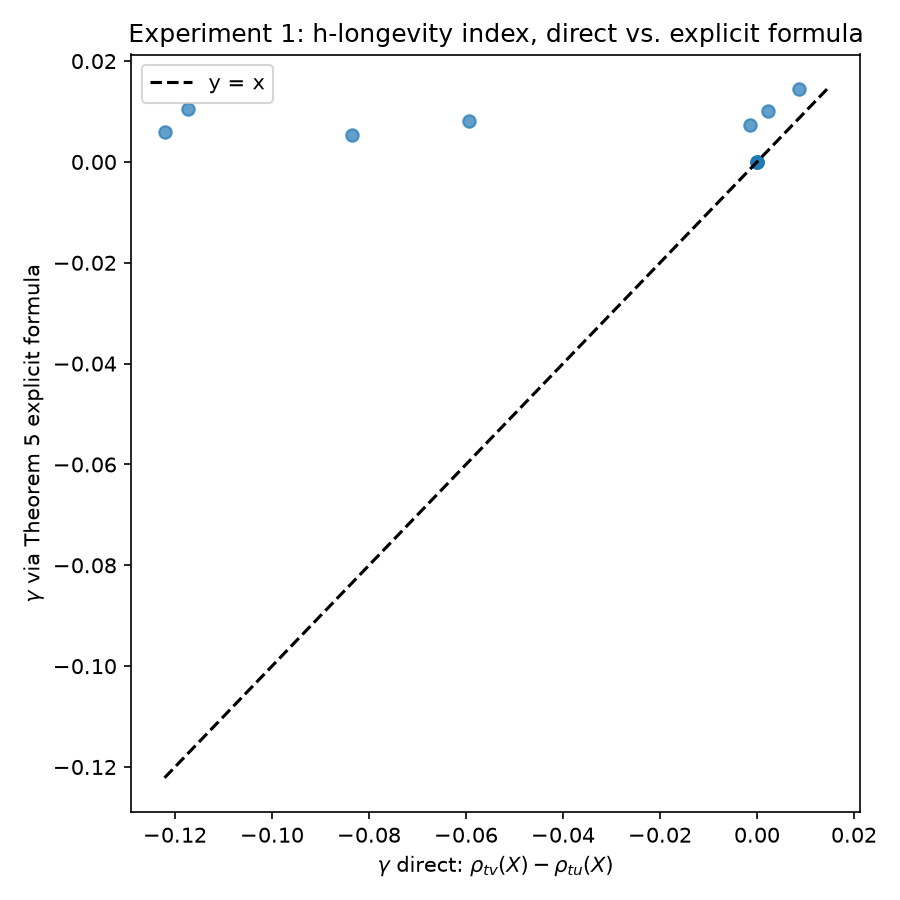
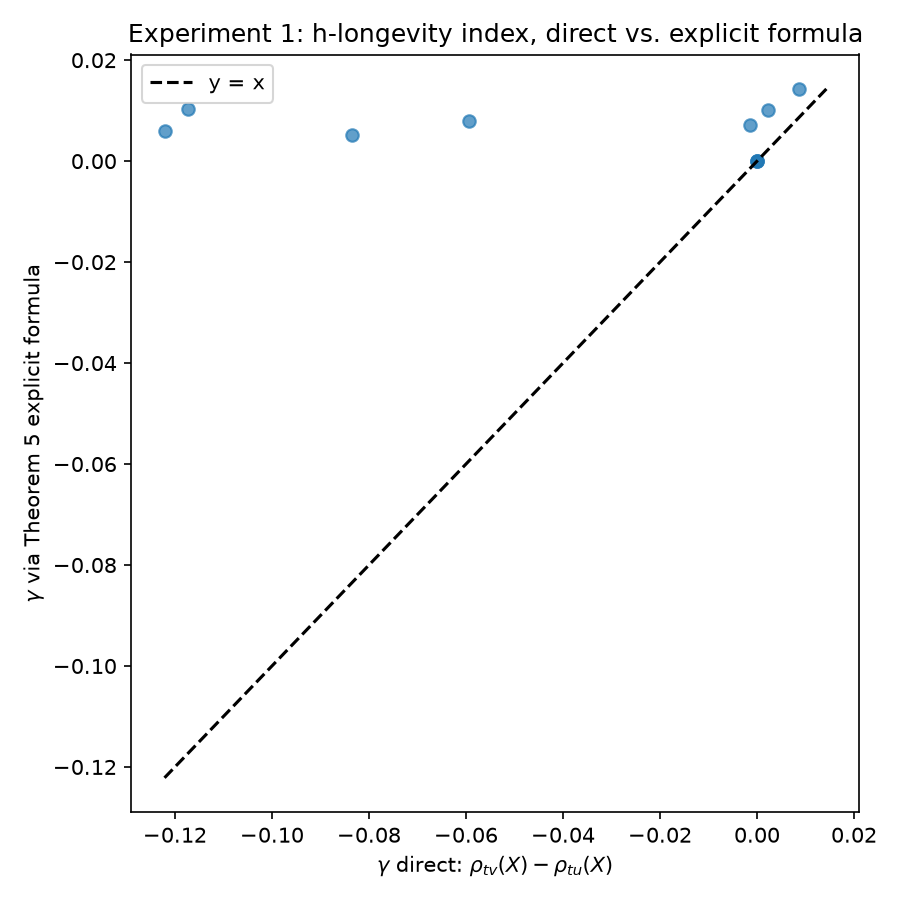
Fix Theorem 5 h-longevity index formula: single exponential factor over [t,v]

diff --git a/src/fully_dynamic.py b/src/fully_dynamic.py
@@ -95,29 +95,21 @@ def gamma_theorem5(
     g_minus_x_zero_vals: np.ndarray,
     basis_degree: int = 5,
 ) -> np.ndarray:
-    """Explicit h-longevity index of Theorem 5,
+    """Explicit h-longevity index of Theorem 5 (Section 2.1, equation
+    preceding/within Theorem 5):
 
-        gamma(t,u,v,X) = E_{Qtilde_X}[ int_u^v exp(int_t^s Delta_y g(r) dr)
-                           g(s,-X,0) ds | F_t ]
-                        = E_P[ W_tv * int_u^v exp(int_t^s Delta_y g(r) dr)
-                           g(s,-X,0) ds | F_t ],
+        gamma(t,u,v,X) = E_{Qtilde_X}[ exp(int_t^v Delta_y g(s) ds)
+                            int_u^v g(s,-X,0) ds | F_t ]
+                       = E_P[ W_tv * exp(int_t^v Delta_y g(s) ds)
+                            int_u^v g(s,-X,0) ds | F_t ],
 
-    with Girsanov density (equation preceding Theorem 5)
+    with Girsanov density
 
         W_tv = exp{ -1/2 int_t^v |Delta_z g(s)|^2 ds + int_t^v Delta_z g(s) dB_s }.
 
-    The running (s-dependent, not fixed at v) exponential discount factor is
-    the solution of the linear BSDE with source term that underlies the
-    proof of Theorem 5 (the comparison tilde_Y_s = Y_s^v - bar_Y_s^u solves
-    d(tilde_Y_s) = -Delta_y g(s) tilde_Y_s ds - g(s,-X,0) 1_{(u,v]}(s) ds +
-    Z_s^v dB_s^{Qtilde}, tilde_Y_v = 0, whose standard linear-BSDE-with-
-    running-cost representation integrates the discount factor exp(int_t^s
-    Delta_y g(r)dr) against the source term g(s,-X,0) under the integral
-    sign). This was checked against a closed-form deterministic case
-    (constant X, driver g=r y^- + z with r constant, so Z = 0 and Qtilde=P):
-    the running-exponent form reproduces rho_tv(X) - rho_tu(X) exactly,
-    while discounting by the fixed factor exp(int_t^v Delta_y g(r)dr) does
-    not.
+    Theorem 5 pulls the exponential e^{int_t^v Delta_y g(s) ds} out of the
+    inner integral: it is a single factor over the *whole* interval [t, v],
+    not a running discount re-evaluated at each s inside int_u^v (·) ds.
 
     This implementation assumes Delta_z g(s) is a known deterministic
     constant over ``[t, v]`` (true for the Example 6 driver g = r_t y^- + z,
@@ -127,25 +119,22 @@ def gamma_theorem5(
     Parameters
     ----------
     delta_y_vals: array (n_paths, n_steps_tv + 1), Delta_y g(s) evaluated at
-        every grid point of ``[t, v]`` (Eq. (18), from the bar-Y extension
+        every grid point of ``[t, v]`` (Eq. (19), from the bar-Y extension
         (17) of the BSDE solutions on [t,u] and [t,v]).
-    delta_z_const: constant value of Delta_z g(s) on [t, v].
+    delta_z_const: constant value of Delta_z g(s) on [t, v] (Eq. (18)).
     g_minus_x_zero_vals: array (n_paths, n_steps_tv + 1), g(s, -X, 0) at
         every grid point of ``[t, v]`` (only ``[u, v]`` is integrated).
     """
-    from scipy.integrate import cumulative_trapezoid
-
     it = grid_index(times, t)
     iv = grid_index(times, v)
     sub_times = times[it : iv + 1]
 
-    # Running exponent int_t^s Delta_y g(r) dr at every grid point s in [t, v].
-    cum_integral = cumulative_trapezoid(delta_y_vals, sub_times, axis=1, initial=0.0)
-    running_discount = np.exp(cum_integral)
+    # Single exponent int_t^v Delta_y g(s) ds over the whole interval [t, v].
+    exponent = np.trapz(delta_y_vals, sub_times, axis=1)
+    discount = np.exp(exponent)
 
     iu_local = grid_index(sub_times, u)
-    integrand = running_discount[:, iu_local:] * g_minus_x_zero_vals[:, iu_local:]
-    inner_integral = np.trapz(integrand, sub_times[iu_local:], axis=1)
+    inner_integral = np.trapz(g_minus_x_zero_vals[:, iu_local:], sub_times[iu_local:], axis=1)
 
     b_t = bm_path[:, it]
     b_v = bm_path[:, iv]
@@ -153,7 +142,7 @@ def gamma_theorem5(
         -0.5 * delta_z_const**2 * (v - t) + delta_z_const * (b_v - b_t)
     )
 
-    payoff = girsanov_weight * inner_integral
+    payoff = girsanov_weight * discount * inner_integral
     return conditional_expectation(payoff, times, bm_path, t, basis_degree)
 
 
